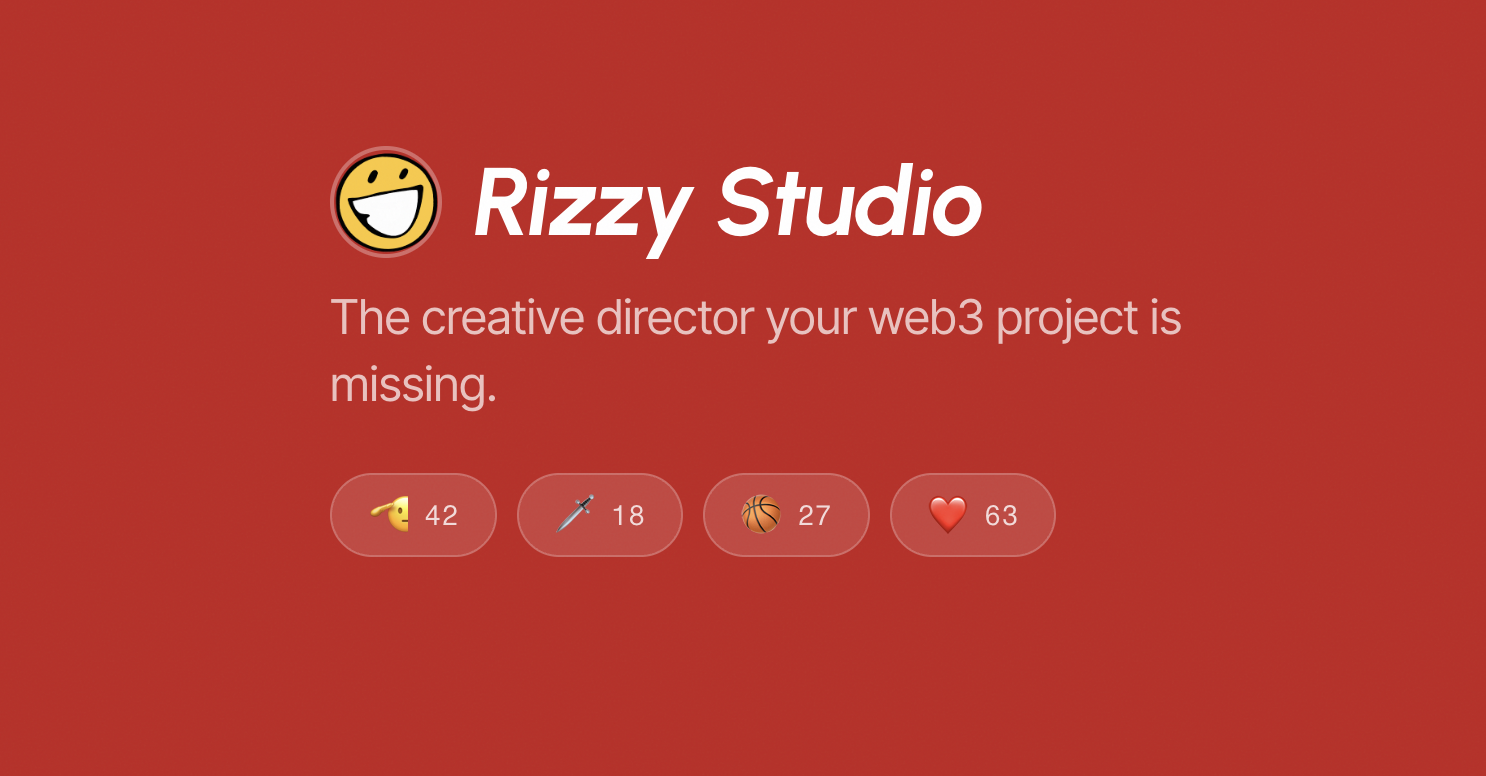
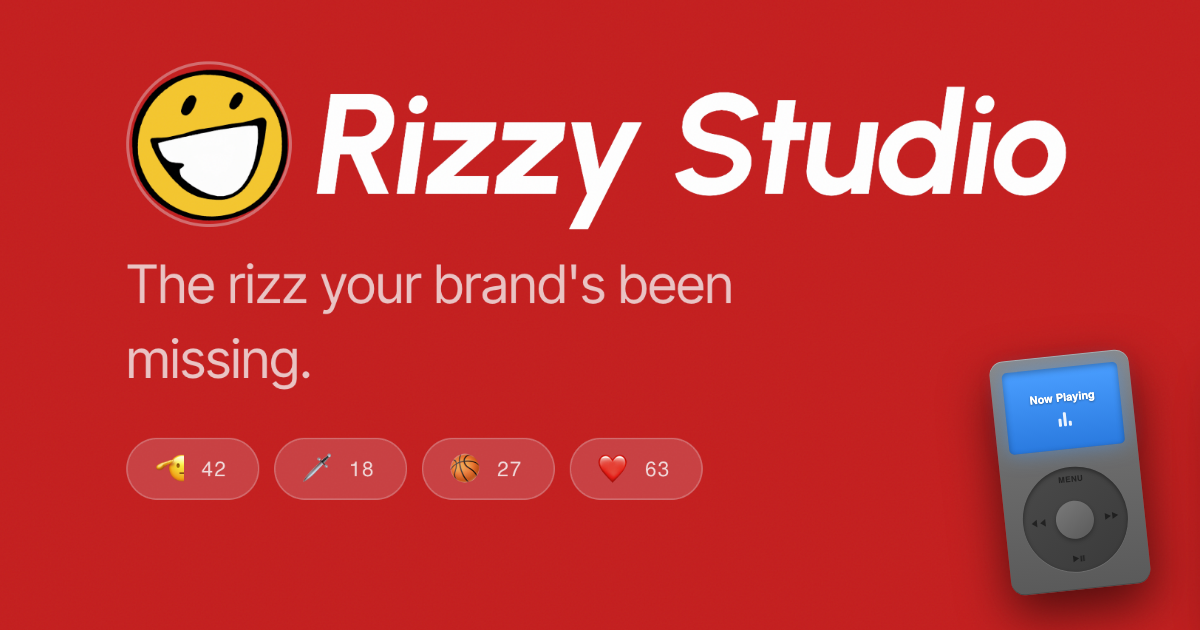
Update OG share image with iPod design, fix meta tag extension to .png

diff --git a/index.html b/index.html
@@ -18,7 +18,7 @@
     <meta property="og:url" content="https://studio-psi-beryl-56.vercel.app/">
     <meta property="og:title" content="Rizzy Studio — Web3 Design">
     <meta property="og:description" content="The creative director your web3 project is missing">
-    <meta property="og:image" content="https://studio-psi-beryl-56.vercel.app/riz-sharecard.jpg">
+    <meta property="og:image" content="https://studio-psi-beryl-56.vercel.app/riz-sharecard.png">
     <meta property="og:image:width" content="1200">
     <meta property="og:image:height" content="630">
 
@@ -26,7 +26,7 @@
     <meta name="twitter:url" content="https://studio-psi-beryl-56.vercel.app/">
     <meta name="twitter:title" content="Rizzy Studio — Web3 Design">
     <meta name="twitter:description" content="The creative director your web3 project is missing">
-    <meta name="twitter:image" content="https://studio-psi-beryl-56.vercel.app/riz-sharecard.jpg">
+    <meta name="twitter:image" content="https://studio-psi-beryl-56.vercel.app/riz-sharecard.png">
 
     <style>
[1 lines of base64/hex data omitted]
